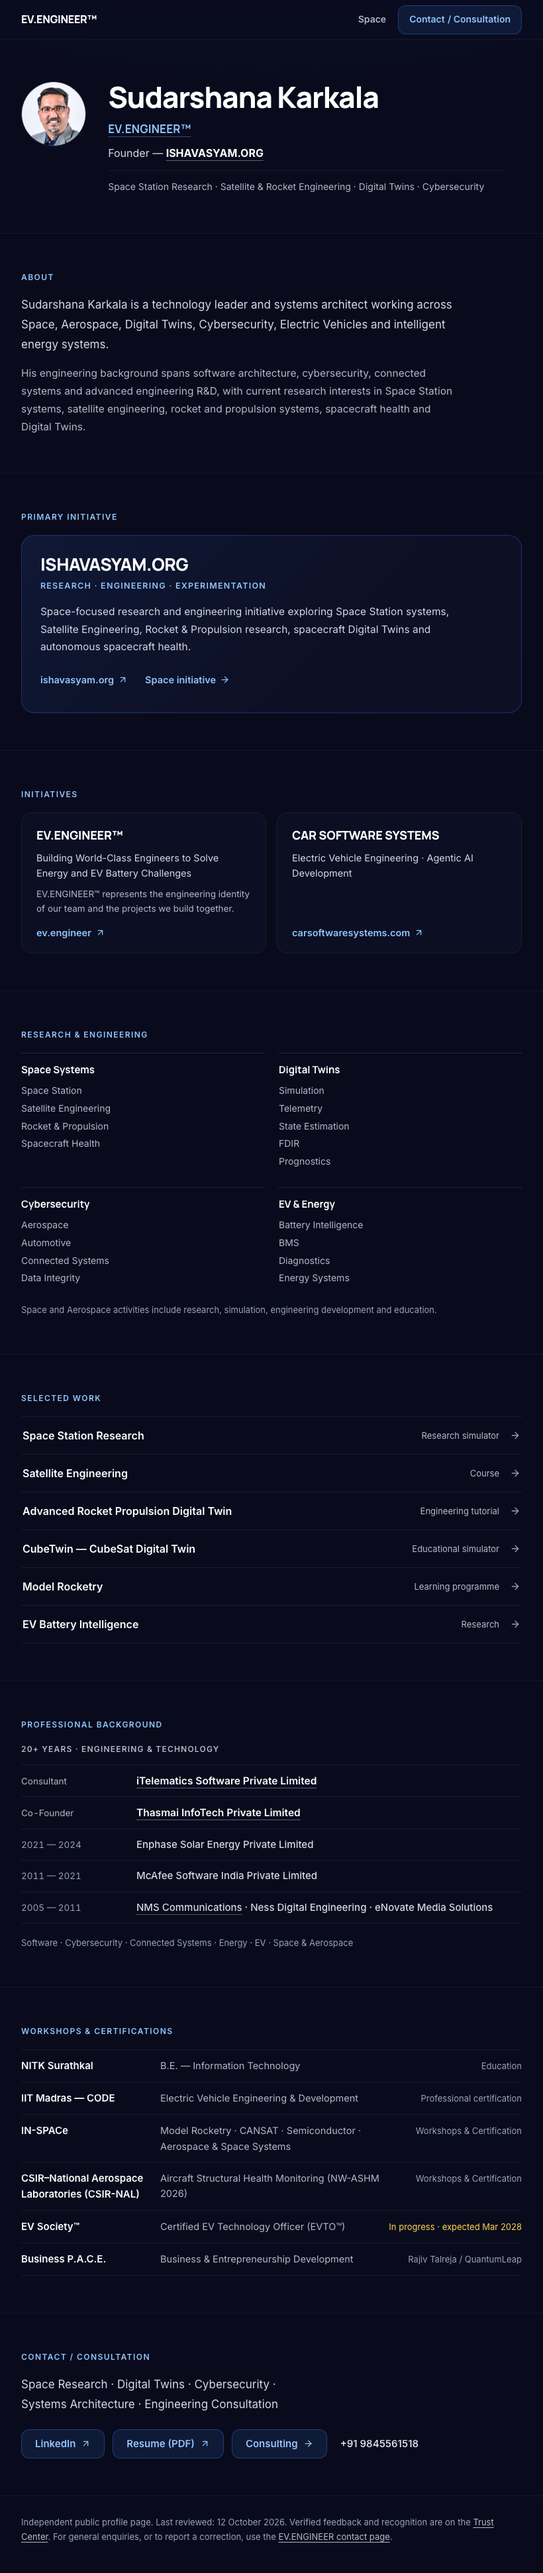
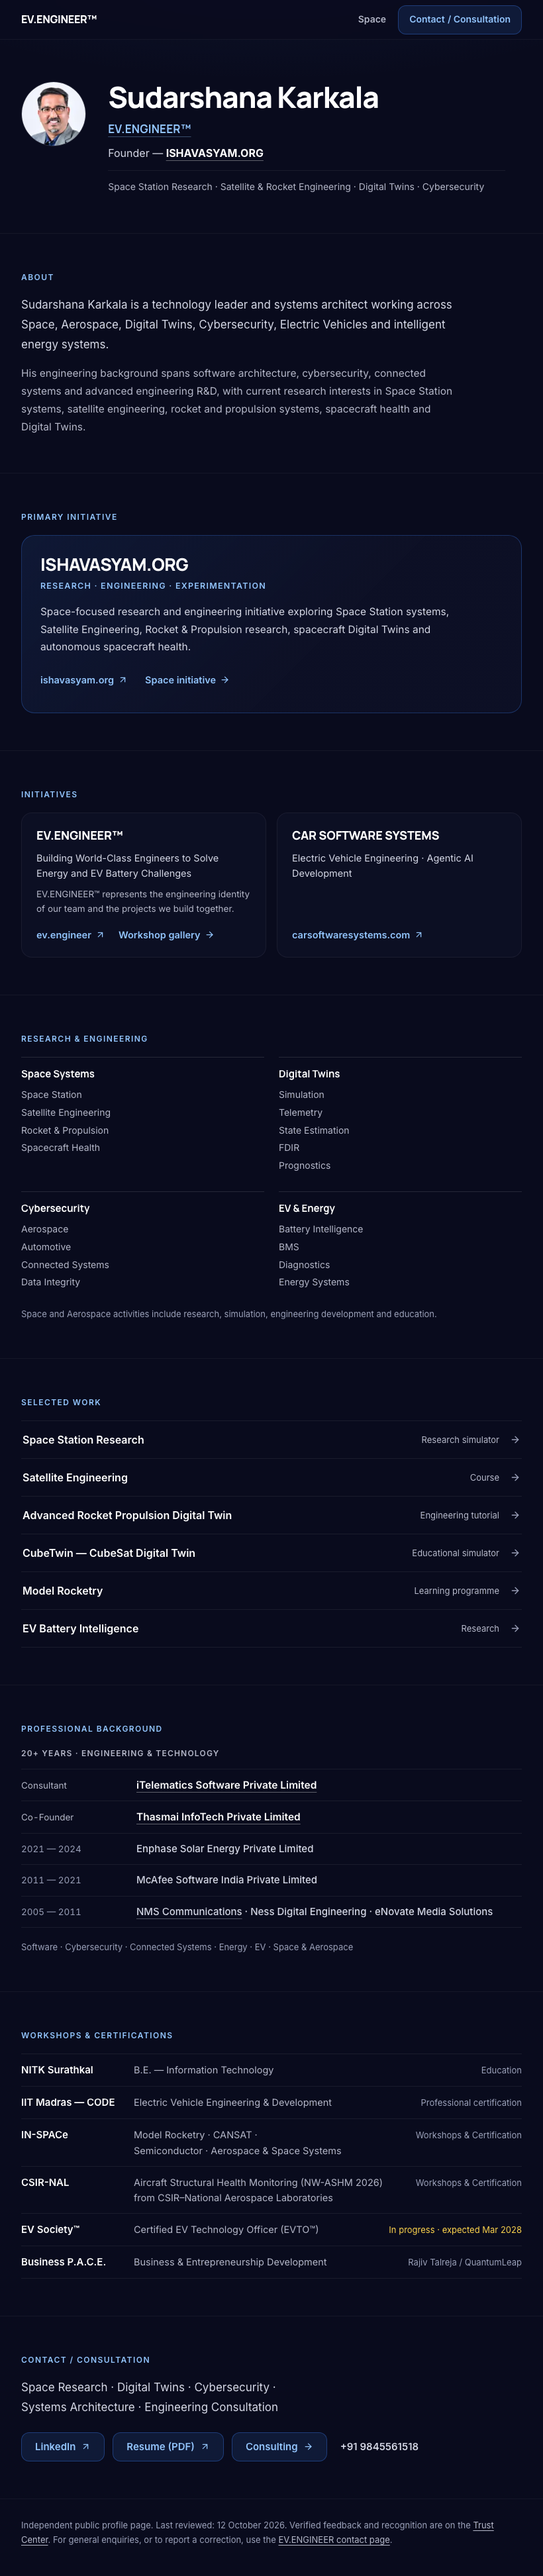
fixed

diff --git a/src/app/about/sudarshana-karkala/page.test.tsx b/src/app/about/sudarshana-karkala/page.test.tsx
@@ -107,15 +107,25 @@ describe("/about/sudarshana-karkala: the initiatives", () => {
   it("lists EV.ENGINEER™ and CAR SOFTWARE SYSTEMS as two small cards, each with its established line and its address", () => {
     render(<ProfilePage />);
     const cards = within(section("Initiatives")).getAllByRole("article");
+    const links = (card: HTMLElement) => within(card).getAllByRole("link").map((a) => [a.textContent?.replace(/\s*\(opens in a new tab\)/, ""), a.getAttribute("href")]);
     expect(cards.map((card) => within(card).getByRole("heading", { level: 3 }).textContent)).toEqual(["EV.ENGINEER™", "CAR SOFTWARE SYSTEMS"]);
     expect(cards[0]).toHaveTextContent("Building World-Class Engineers to Solve Energy and EV Battery Challenges");
-    expect(within(cards[0]).getByRole("link")).toHaveAttribute("href", "https://ev.engineer/");
+    // Its own site, and beside it the gallery of its workshops.
+    expect(links(cards[0])).toEqual([
+      ["ev.engineer", "https://ev.engineer/"],
+      ["Workshop gallery", "/workshop-gallery"],
+    ]);
     expect(cards[1]).toHaveTextContent("Electric Vehicle Engineering · Agentic AI Development");
-    expect(within(cards[1]).getByRole("link")).toHaveAttribute("href", "https://carsoftwaresystems.com/");
+    expect(links(cards[1])).toEqual([["carsoftwaresystems.com", "https://carsoftwaresystems.com/"]]);
     for (const card of cards) {
-      expect(within(card).getByRole("link")).toHaveAttribute("rel", "noopener noreferrer");
-      // A card, not a corporate page: a name, a line, at most one sentence, one link.
+      for (const link of within(card).getAllByRole("link")) {
+        // A link that leaves the site opens in a new tab, safely; a page of this site opens in place.
+        if (link.getAttribute("href")?.startsWith("http")) expect(link).toHaveAttribute("rel", "noopener noreferrer");
+        else expect(link).not.toHaveAttribute("target");
+      }
+      // A card, not a corporate page: a name, a line, at most one sentence, at most two links.
       expect(card.querySelectorAll("p").length).toBeLessThanOrEqual(2);
+      expect(within(card).getAllByRole("link").length).toBeLessThanOrEqual(2);
     }
   });
 });
@@ -277,7 +287,7 @@ describe("/about/sudarshana-karkala: workshops and certifications", () => {
       "NITK Surathkal B.E. — Information Technology Education",
       "IIT Madras — CODE Electric Vehicle Engineering & Development Professional certification",
       "IN-SPACe Model Rocketry · CANSAT · Semiconductor · Aerospace & Space Systems Workshops & Certification",
-      "CSIR–National Aerospace Laboratories (CSIR-NAL) Aircraft Structural Health Monitoring (NW-ASHM 2026) Workshops & Certification",
+      "CSIR-NAL Aircraft Structural Health Monitoring (NW-ASHM 2026) from CSIR–National Aerospace Laboratories Workshops & Certification",
       "EV Society™ Certified EV Technology Officer (EVTO™) In progress · expected Mar 2028",
       "Business P.A.C.E. Business & Entrepreneurship Development Rajiv Talreja / QuantumLeap",
     ]);
@@ -309,14 +319,16 @@ describe("/about/sudarshana-karkala: workshops and certifications", () => {
     expect(JSON.stringify(graphOf(container))).not.toMatch(/semiconductor|cansat|IN-SPACe/i);
   });
 
-  it("lists the CSIR-NAL workshop directly after IN-SPACe, by its institution, its name and what kind of thing it is", () => {
+  it("lists the CSIR-NAL workshop directly after IN-SPACe: the short name, then the workshop and the laboratory in full, then what kind of thing it is", () => {
     const { container } = render(<ProfilePage />);
-    const row = screen.getByText("CSIR–National Aerospace Laboratories (CSIR-NAL)").closest("li")!;
+    const row = screen.getByText("CSIR-NAL").closest("li")!;
     expect([...row.children].map((cell) => cell.textContent)).toEqual([
-      "CSIR–National Aerospace Laboratories (CSIR-NAL)",
-      "Aircraft Structural Health Monitoring (NW-ASHM 2026)",
+      "CSIR-NAL",
+      "Aircraft Structural Health Monitoring (NW-ASHM 2026) from CSIR–National Aerospace Laboratories",
       "Workshops & Certification",
     ]);
+    // The code in brackets stays in one piece when the line wraps.
+    expect(row.querySelector("span span")).toHaveTextContent(/^\(NW-ASHM 2026\)$/);
     expect(row.previousElementSibling).toHaveTextContent(/^IN-SPACe/);
     expect(row.nextElementSibling).toHaveTextContent(/^EV Society™/);
     // Named as given, and nothing added to it: no title, no completion, no award.
@@ -470,8 +482,9 @@ describe("/about/sudarshana-karkala: the page as a whole", () => {
       "CANSAT",
       "Semiconductor",
       "Aerospace & Space Systems",
-      "CSIR–National Aerospace Laboratories (CSIR-NAL)",
-      "Aircraft Structural Health Monitoring (NW-ASHM 2026)",
+      "CSIR-NAL",
+      "Aircraft Structural Health Monitoring (NW-ASHM 2026) from CSIR–National Aerospace Laboratories",
+      "Workshop gallery",
       "Contact / Consultation",
     ]) {
       expect(html).toContain(fact);

diff --git a/src/app/about/sudarshana-karkala/ProfileContent.tsx b/src/app/about/sudarshana-karkala/ProfileContent.tsx
@@ -45,6 +45,26 @@ function Dotted({ items }: { items: readonly string[] }) {
   );
 }
 
+/**
+ * Text with a bracketed code in it, such as "(NW-ASHM 2026)", or a name joined by an en dash, such as
+ * "CSIR–National". Each of those stays in one piece when the line wraps; the rest wraps as usual.
+ */
+function Bracketed({ text }: { text: string }) {
+  return (
+    <>
+      {text.split(/(\([^)]*\)|\S+–\S+)/).map((part, index) =>
+        part.startsWith("(") || part.includes("–") ? (
+          <span key={index} className={styles.unbroken}>
+            {part}
+          </span>
+        ) : (
+          part
+        ),
+      )}
+    </>
+  );
+}
+
 type NameLinkTarget = { href: string; id: "ishavasyam" | "ev_engineer" | "itelematics" | "thasmai"; destination: string };
 
 /** An organisation's name that is also the way to its own site. A plain link: the name itself, underlined quietly. */
@@ -171,10 +191,21 @@ export default function ProfileContent() {
                 <h3 className={styles.initiativeName}>{initiative.name}</h3>
                 <p className={styles.initiativeLine}>{initiative.line}</p>
                 {initiative.note ? <p className={styles.initiativeNote}>{initiative.note}</p> : null}
-                <a href={initiative.link.href} {...NEW_TAB} className={`${styles.textLink} ${styles.initiativeLink}`} {...profileTracking("profile_initiative_click", { initiative_name: initiative.id, destination: initiative.link.destination, section: "initiatives" })}>
-                  {initiative.link.label}
-                  <Leaves />
-                </a>
+                <div className={styles.initiativeLinks}>
+                  {initiative.links.map((link) =>
+                    link.external ? (
+                      <a key={link.href} href={link.href} {...NEW_TAB} className={styles.textLink} {...profileTracking("profile_initiative_click", { initiative_name: initiative.id, destination: link.destination, section: "initiatives" })}>
+                        {link.label}
+                        <Leaves />
+                      </a>
+                    ) : (
+                      <Link key={link.href} href={link.href} className={styles.textLink} {...profileTracking("profile_initiative_click", { initiative_name: initiative.id, destination: link.destination, section: "initiatives" })}>
+                        {link.label}
+                        <ArrowRight size={15} aria-hidden="true" />
+                      </Link>
+                    ),
+                  )}
+                </div>
               </article>
             ))}
           </div>
@@ -267,8 +298,10 @@ export default function ProfileContent() {
           <ul className={styles.education} role="list">
             {WORKSHOPS.entries.map((entry) => (
               <li key={entry.institution}>
-                <span className={styles.eduInstitution}>{entry.institution}</span>{" "}
-                <span className={styles.eduProgramme}>{entry.areas ? <Dotted items={entry.areas} /> : entry.programme}</span>
+                <span className={styles.eduInstitution}>
+                  <Bracketed text={entry.institution} />
+                </span>{" "}
+                <span className={styles.eduProgramme}>{entry.areas ? <Dotted items={entry.areas} /> : <Bracketed text={entry.programme ?? ""} />}</span>
                 {entry.meta ? (
                   <>
                     {" "}

diff --git a/src/app/about/sudarshana-karkala/profile.ts b/src/app/about/sudarshana-karkala/profile.ts
@@ -52,14 +52,18 @@ export const INITIATIVES = [
     name: "EV.ENGINEER™",
     line: "Building World-Class Engineers to Solve Energy and EV Battery Challenges",
     note: "EV.ENGINEER™ represents the engineering identity of our team and the projects we build together.",
-    link: { label: "ev.engineer", href: EV_ENGINEER_URL, destination: "ev.engineer" },
+    links: [
+      { label: "ev.engineer", href: EV_ENGINEER_URL, external: true, destination: "ev.engineer" },
+      // The workshops, in pictures. A page of this site, so it opens in place on whichever host is being read.
+      { label: "Workshop gallery", href: "/workshop-gallery", external: false, destination: "/workshop-gallery" },
+    ],
   },
   {
     id: "car_software_systems",
     name: "CAR SOFTWARE SYSTEMS",
     line: "Electric Vehicle Engineering · Agentic AI Development",
     note: null,
-    link: { label: "carsoftwaresystems.com", href: "https://carsoftwaresystems.com/", destination: "carsoftwaresystems.com" },
+    links: [{ label: "carsoftwaresystems.com", href: "https://carsoftwaresystems.com/", external: true, destination: "carsoftwaresystems.com" }],
   },
 ] as const;
 
@@ -124,7 +128,7 @@ export const WORKSHOPS: {
     // states them. No lecture is listed as a certification of its own, and no title is claimed from it.
     { institution: "IN-SPACe", areas: ["Model Rocketry", "CANSAT", "Semiconductor", "Aerospace & Space Systems"], meta: "Workshops & Certification" },
     // The national workshop NW-ASHM 2026, named and described as the owner gives it.
-    { institution: "CSIR–National Aerospace Laboratories (CSIR-NAL)", programme: "Aircraft Structural Health Monitoring (NW-ASHM 2026)", meta: "Workshops & Certification" },
+    { institution: "CSIR-NAL", programme: "Aircraft Structural Health Monitoring (NW-ASHM 2026) from CSIR–National Aerospace Laboratories", meta: "Workshops & Certification" },
     { institution: "EV Society™", programme: "Certified EV Technology Officer (EVTO™)", meta: "In progress · expected Mar 2028", status: "in-progress" },
     { institution: "Business P.A.C.E.", programme: "Business & Entrepreneurship Development", meta: "Rajiv Talreja / QuantumLeap" },
   ],

diff --git a/src/app/about/sudarshana-karkala/analytics.test.tsx b/src/app/about/sudarshana-karkala/analytics.test.tsx
@@ -112,11 +112,13 @@ describe("profile analytics: what a visitor uses", () => {
     fireEvent.click(screen.getByRole("link", { name: /^ishavasyam\.org/ }));
     fireEvent.click(screen.getByRole("link", { name: "Space initiative" }));
     fireEvent.click(screen.getByRole("link", { name: /^ev\.engineer/ }));
+    fireEvent.click(screen.getByRole("link", { name: "Workshop gallery" }));
     fireEvent.click(screen.getByRole("link", { name: /^carsoftwaresystems\.com/ }));
     expect(trackEvent.mock.calls).toEqual([
       ["profile_initiative_click", { initiative_name: "ishavasyam", destination: "ishavasyam.org", section: "primary_initiative" }],
       ["profile_initiative_click", { initiative_name: "ishavasyam", destination: "/space", section: "primary_initiative" }],
       ["profile_initiative_click", { initiative_name: "ev_engineer", destination: "ev.engineer", section: "initiatives" }],
+      ["profile_initiative_click", { initiative_name: "ev_engineer", destination: "/workshop-gallery", section: "initiatives" }],
       ["profile_initiative_click", { initiative_name: "car_software_systems", destination: "carsoftwaresystems.com", section: "initiatives" }],
     ]);
   });

diff --git a/src/app/about/sudarshana-karkala/page.module.css b/src/app/about/sudarshana-karkala/page.module.css
@@ -353,8 +353,11 @@
   line-height: 1.6;
   color: var(--space-muted);
 }
-.initiativeLink {
-  align-self: flex-start;
+/* The card's links, side by side at its foot. */
+.initiativeLinks {
+  display: flex;
+  flex-wrap: wrap;
+  gap: 0 20px;
   margin-top: auto;
   padding-top: 6px;
 }
@@ -530,7 +533,8 @@
 }
 .education li {
   display: grid;
-  grid-template-columns: minmax(0, 190px) minmax(0, 1fr) auto;
+  /* The first column fits the longest short name ("IIT Madras — CODE"); the rest of the row is for what was studied. */
+  grid-template-columns: minmax(0, 150px) minmax(0, 1fr) auto;
   align-items: baseline;
   gap: 4px 20px;
   padding: 12px 0;
@@ -544,6 +548,7 @@
 .eduProgramme {
   font-size: 14.5px;
   color: var(--space-muted);
+  text-wrap: balance;
 }
 .eduMeta {
   font-size: 13px;
